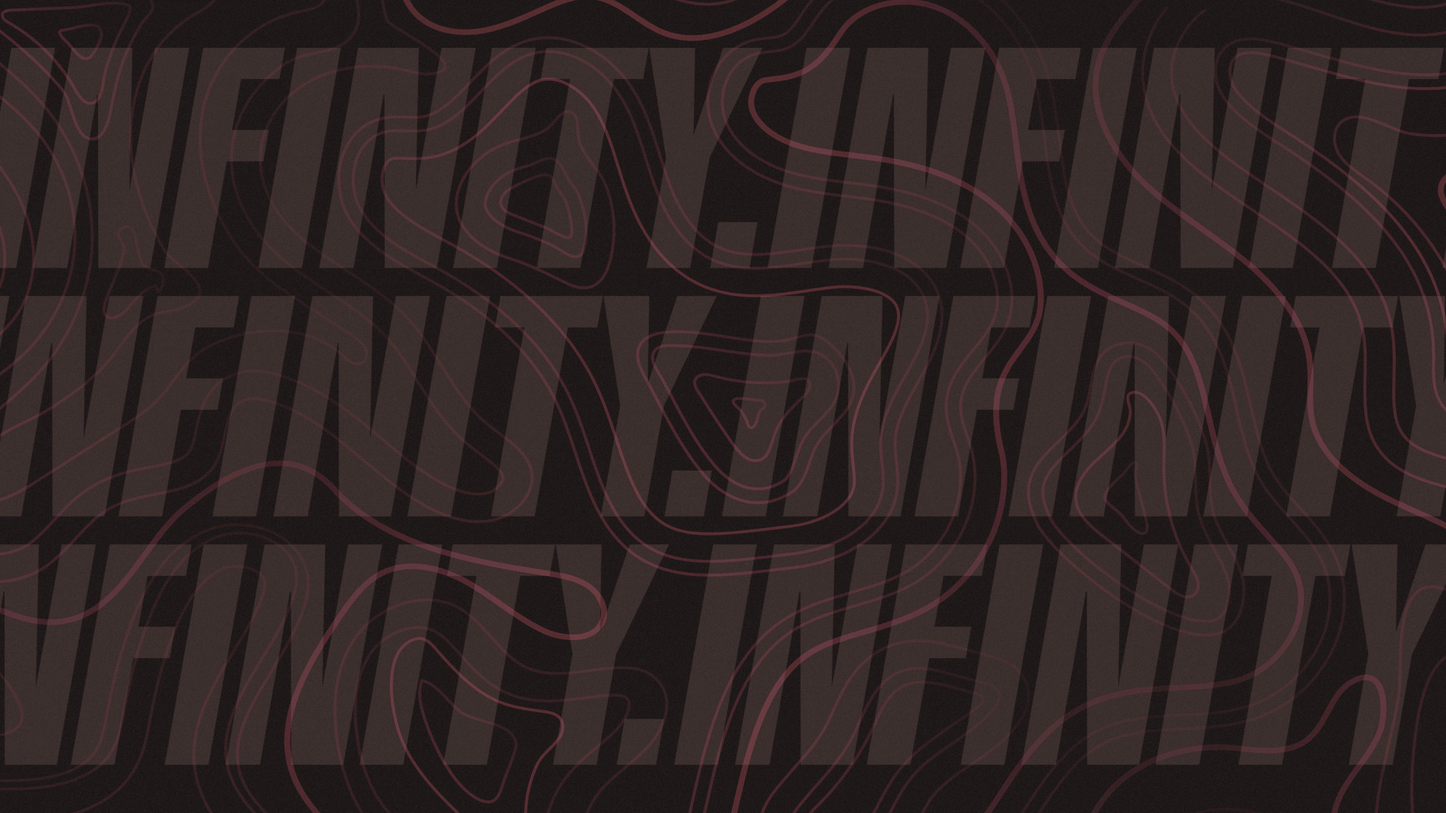
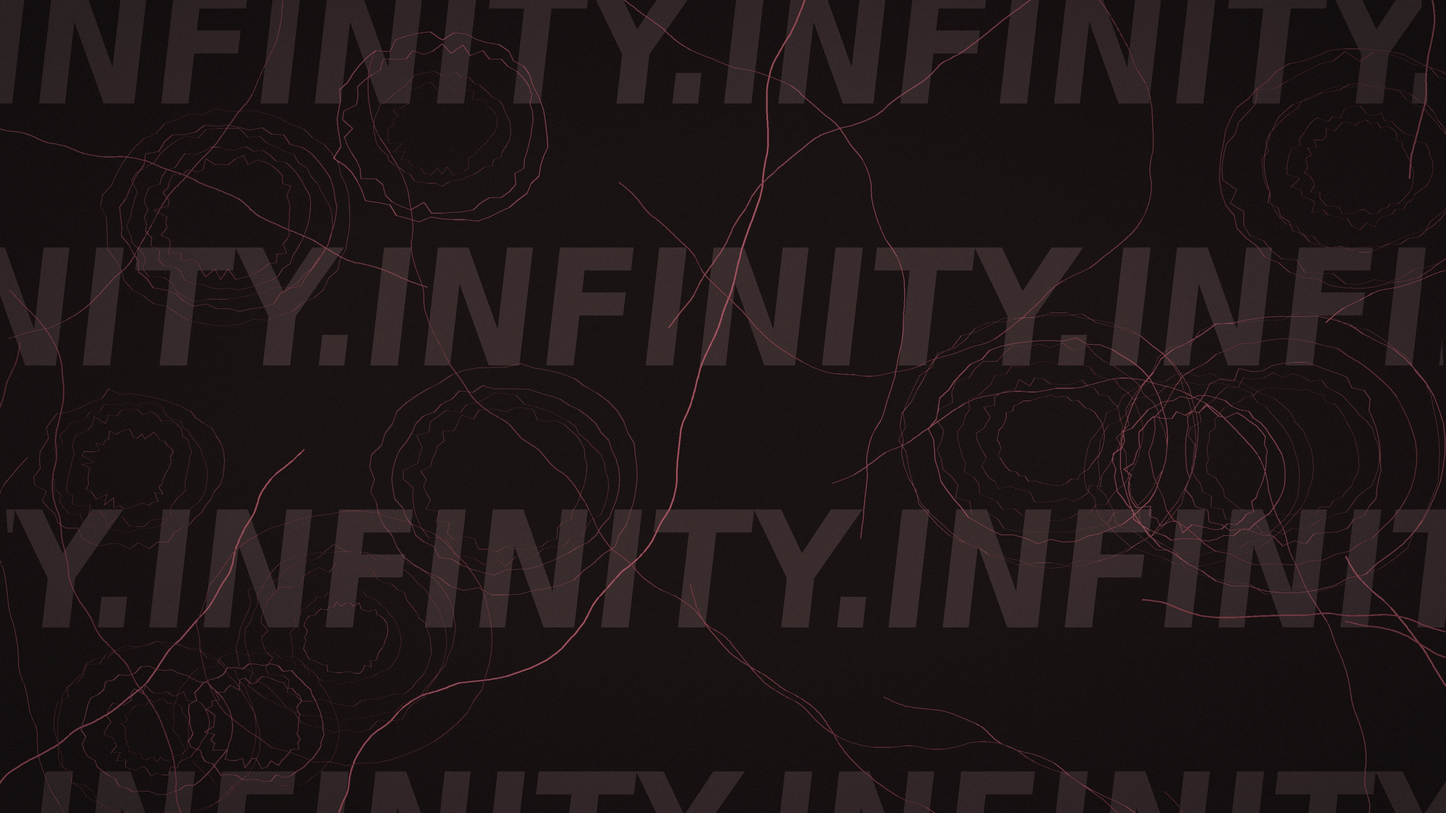
Add files via upload

diff --git a/assets/css/style.css b/assets/css/style.css
@@ -49,7 +49,7 @@ body{
   font-family:var(--font-body);
   color:var(--color-text);
   background-color:var(--color-ink);
-  background-image: var(--user-bg-image, url("assets/images/background.webp"));
+  background-image: var(--user-bg-image, url("../images/background.jpg"));
   background-size:cover;
   background-position:center;
   background-attachment:scroll;
